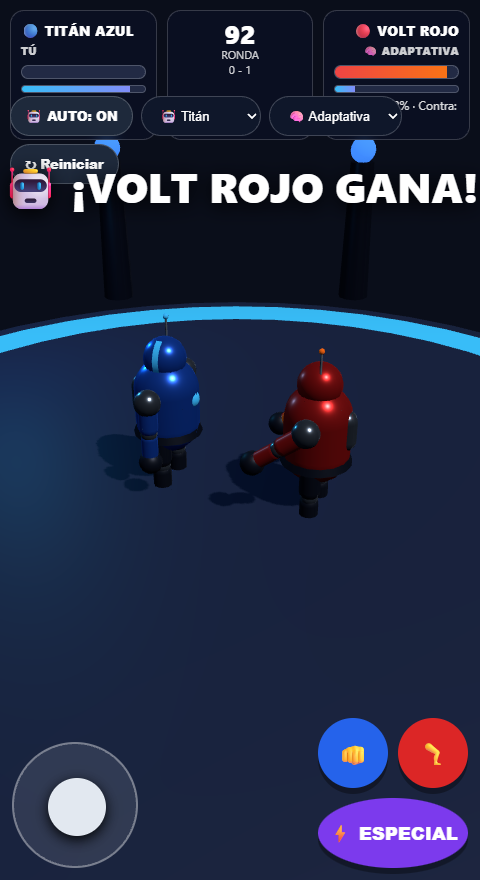
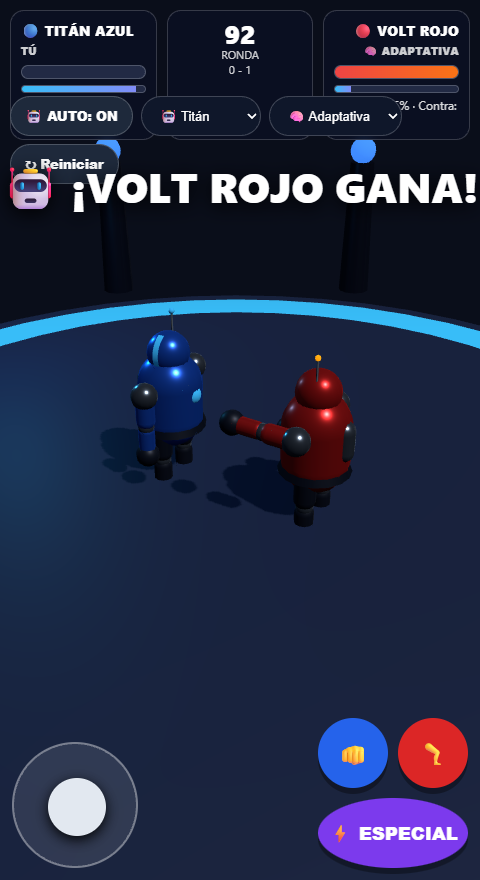
README: enlace a pipeline Blender + Tripo AI

Changed region(s): [[0.0, 0.3375, 1.0, 0.6136], [0.9375, 0.0614, 0.9688, 0.092]]

diff --git a/README.md b/README.md
@@ -35,6 +35,9 @@ Cambia la personalidad con el selector desplegable arriba a la izquierda. Cada u
 ## Jugar online
 https://traderxael.github.io/pelea-IA-VS/ (GitHub Pages)
 
+## Modelos 3D animados (Blender + Tripo AI)
+El juego carga automáticamente modelos `.glb` desde `assets/models/` (Idle + Attack riggeado). Si no existen, usa los modelos procedurales. Ver **MODELOS.md**: incluye el script de Blender (`tools/blender_build.py`) y los pasos para Tripo AI.
+
 ## Estructura
 - `index.html` — juego completo (HTML + CSS + JS + Three.js)
 - `DISENO.md` — diseño y decisiones tomadas
